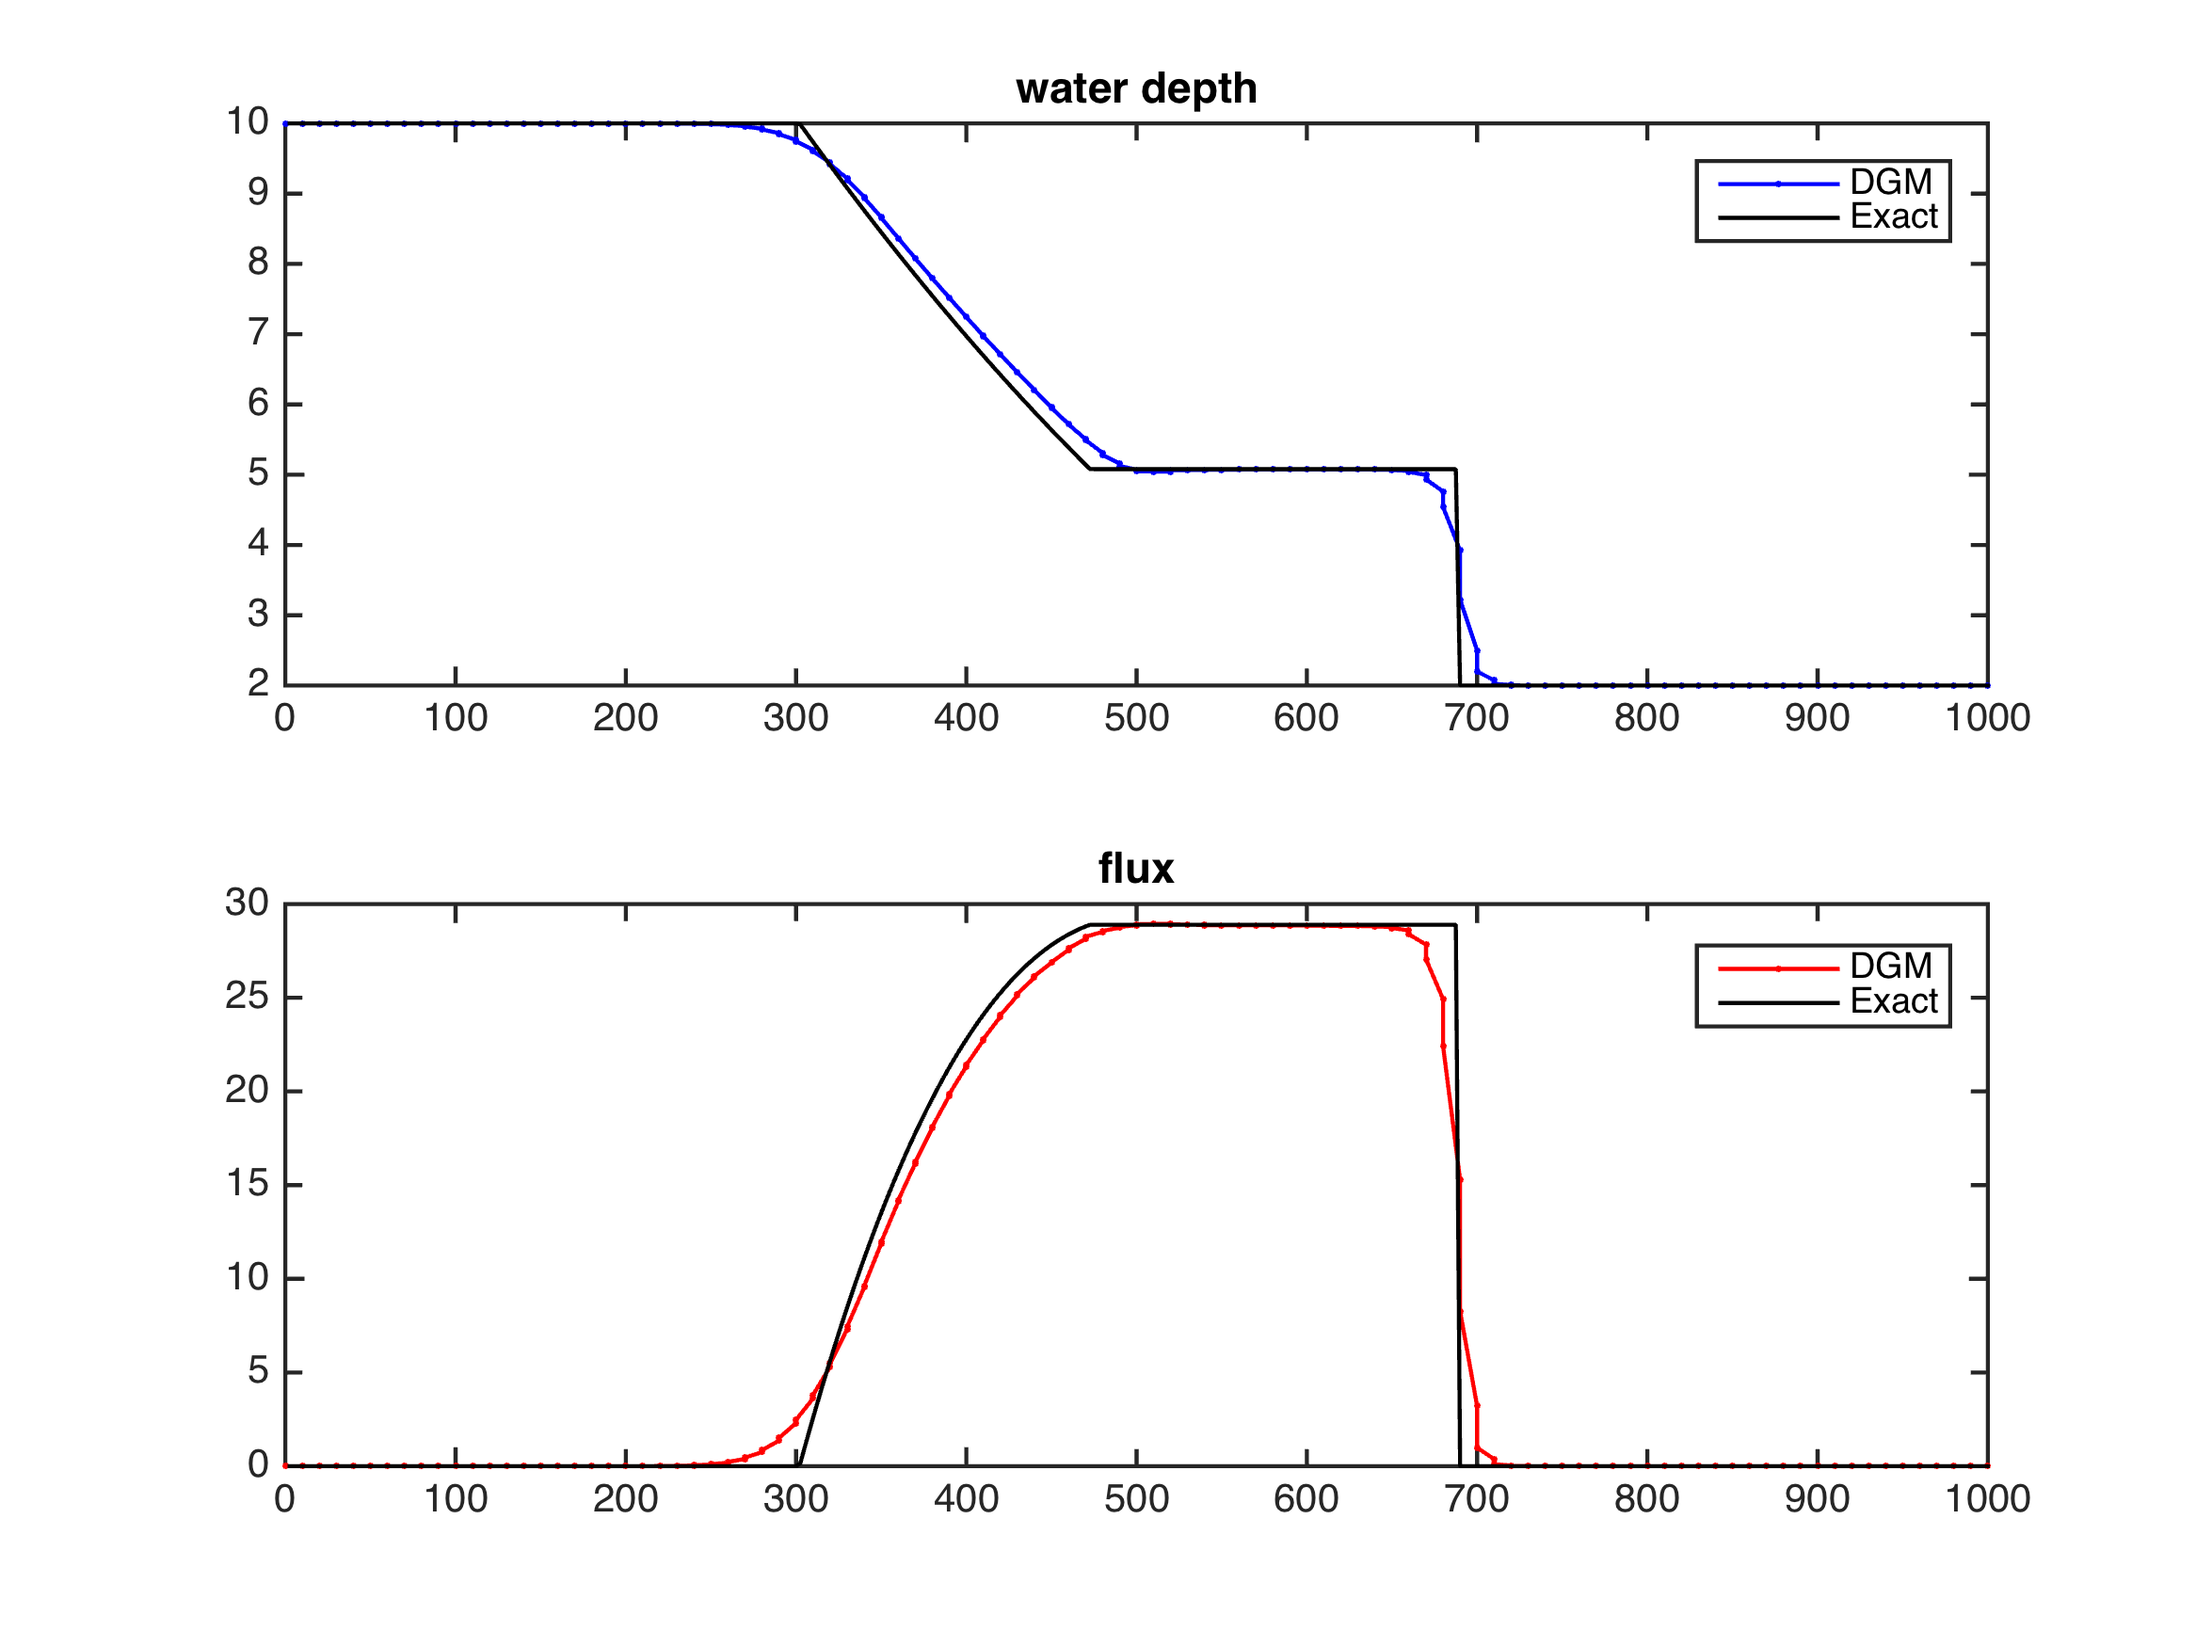
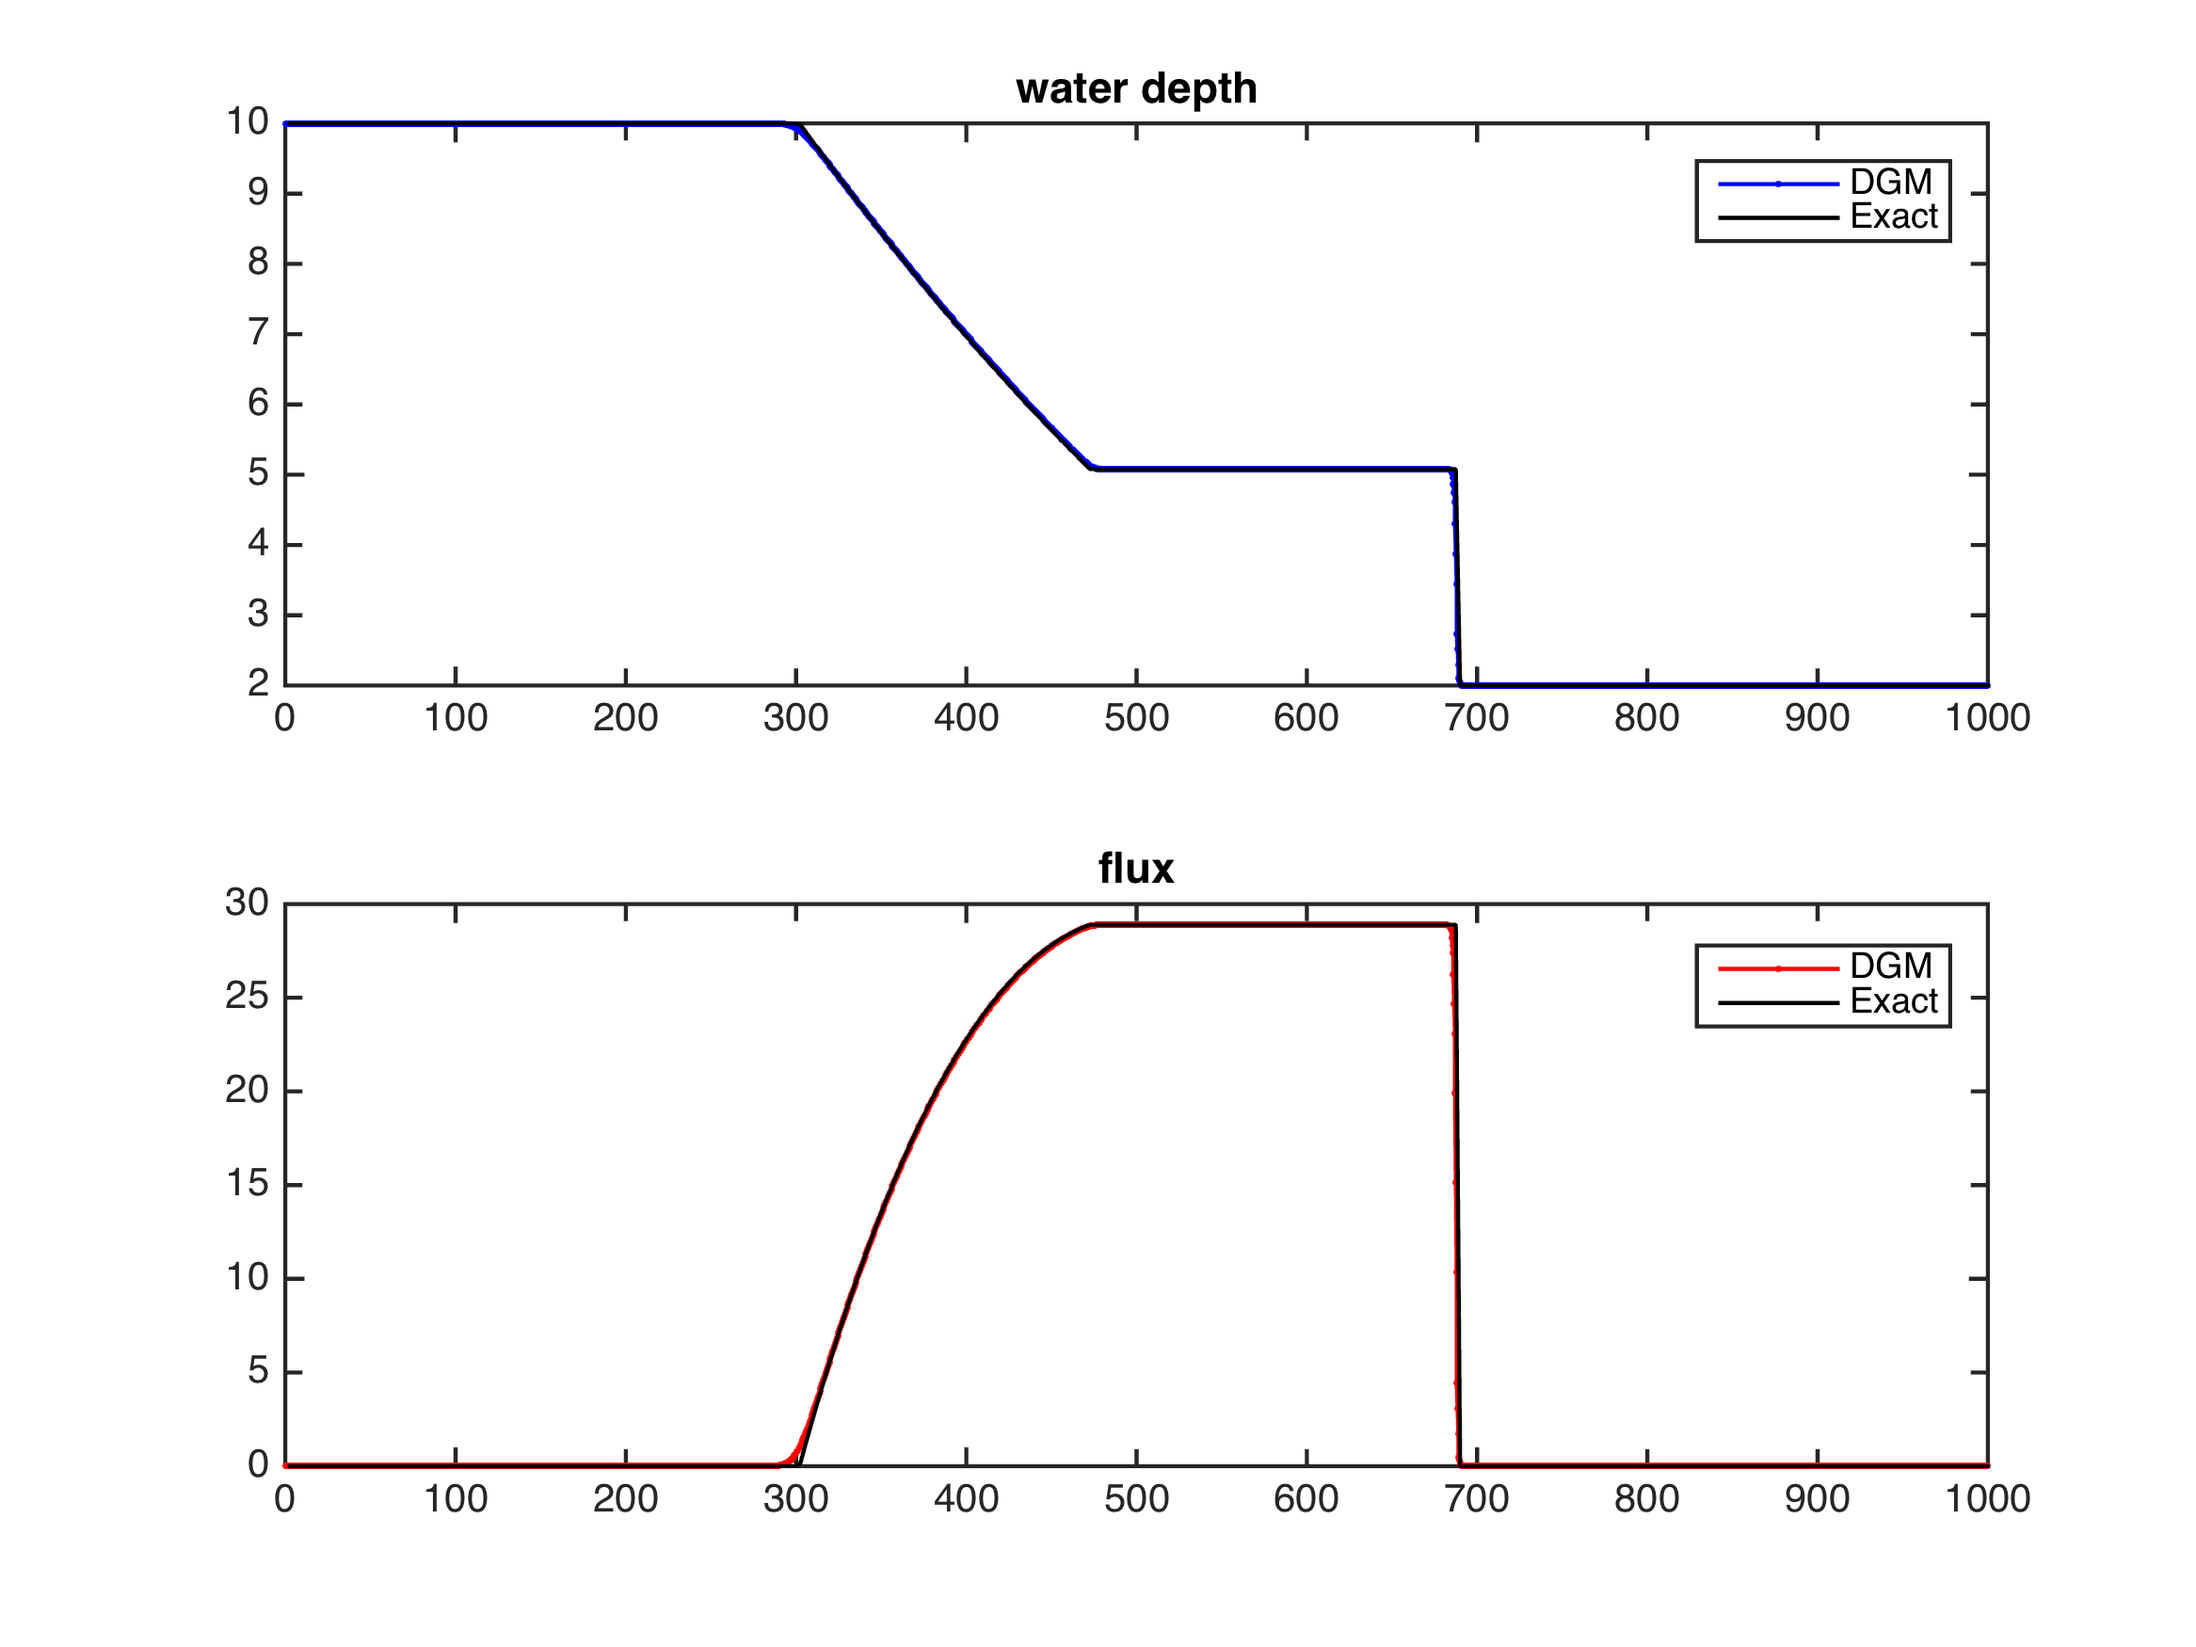
adding Lax-Friedrichs numerical flux

diff --git a/SWE1D/SWELF.m b/SWE1D/SWELF.m
@@ -1,0 +1,34 @@
+function [Fhs, Fqs] = SWELF(mesh, h, q)
+% Lax-Friedrichs numerical flux
+
+hDelta = 10^-3; g = 9.8;
+
+% rotate variable
+hM = h(mesh.vmapM); hP = h(mesh.vmapP);
+qM = mesh.nx.* q(mesh.vmapM); qP = mesh.nx.* q(mesh.vmapP);
+uM = zeros(size(hM)); uP = zeros(size(hP));
+isWetM = hM > hDelta; isWetP = hP > hDelta;
+
+uM(isWetM) = qM(isWetM)./hM(isWetM);
+uP(isWetP) = qP(isWetP)./hP(isWetP);
+
+% estimate wave speed
+SM = abs(uM) + sqrt(g*hM); SP = abs(uP) + sqrt(g*hP);
+SM(~isWetM) = 0; SM(~isWetP) = 0;
+S = max(SM, SP);
+
+[FhM, FqM] = SWEFlux(hM, qM, hDelta);
+[FhP, FqP] = SWEFlux(hP, qP, hDelta);
+
+% Compute HLL flux
+% Fhs = zeros(size(FhM)); Fqs = zeros(size(FqM));
+Fhs = 0.5*(FhM + FhP + S.*(hM - hP));
+Fqs = 0.5*(FqM + FqP + S.*(qM - qP));
+
+% both dry
+sflag = ~isWetM & ~isWetP;
+Fhs(sflag) = 0; Fqs(sflag) = 0;
+
+% rotate invariance
+Fqs = Fqs.*mesh.nx;
+end% func

diff --git a/SWE1D/PostProcess/ExactParabolicBowl.m b/SWE1D/PostProcess/ExactParabolicBowl.m
@@ -1,5 +1,5 @@
 close all
-filename = 'SWE1D.nc';
+filename = 'ParabolicBowl.nc';
 
 time = ncread(filename, 'time');
 % timestep = numel(time)
@@ -27,7 +27,7 @@ z2 = (4*B*w).*x./(4*g);
 h2 = z2 - bedElevation;
 h2(h2<hDelta) = hDelta;
 
-z3 = 1.22*ones(size(x));
+z3 = 1.22*ones(size(x)); %
 h3 = z3 - bedElevation;
 h3(h3<hDelta) = hDelta;
 
@@ -45,15 +45,15 @@ for n = 1:numel(exTime)
     figure
     subplot(2,1,1); 
     p_h = plot(x, h+bedElevation, '-b.'); hold on;
-    plot(x, bedElevation, 'k')
     switch n
         case 1
             plot(x, bedElevation+h2, 'k--')
         case 2
-%             h3 = h3 + 1.22;
             plot(x, bedElevation+h3, 'k--')
         case 3
             plot(x, bedElevation+h1, 'k--')
     end
+    legend('DGM', 'Exact')
+    plot(x, bedElevation, 'k')
     subplot(2,1,2); p_q = plot(x, q, '-r.');
 end% for

diff --git a/SWE1D/PostProcess/ExactFlowDump.m b/SWE1D/PostProcess/ExactFlowDump.m
@@ -1,0 +1,38 @@
+function [x, h] = ExactFlowDump(condition)
+% exact solution of flow dump
+% Input:
+%   condition - [1]: Subcritical flow
+%               [2]: Supercritical flow
+%               [3]: Transcritical flow
+
+x1 = 0; x2 = 25; % Flow over dump
+
+ne = 500; np = ne + 1;
+x = linspace(x1, x2, np);
+
+% bottom topography
+flag = (x >= 8) & (x <=12);
+z = zeros(size(x));
+z(flag) = 0.2 - 0.05*(x(flag) -10).^2;
+
+% inflow condition
+switch condition
+    case 1
+        q0 = 0.18; h0 = 0.5; 
+    case 2
+        q0 = 25.0567; h0 = 2.0; 
+    case 3
+        q0 = 0.18; h0 = 0.33; 
+end
+g = 9.8;
+
+% 
+h = zeros(size(x));
+h(1) = h0;
+for in = 2:np
+    coef = ( 1 - q0^2./(g*h(in-1).^3) );
+    xdelta = x(in) - x(in - 1);
+    h(in) = h(in - 1) + xdelta./coef*( -(z(in) - z(in-1))./xdelta );
+end% for
+
+plot(x, z, 'k', x, z+h, 'b-')

diff --git a/SWE1D/SWESetUp.m b/SWE1D/SWESetUp.m
@@ -7,7 +7,7 @@ function [h ,q] = SWESetUp
 
 physics = Utilities.varGroup;
 
-caseName = 'ParabolicBowl';
+caseName = 'DamBreakDry';
 switch caseName
     case 'DamBreakDry'
         FinalTime = 20; % Dam break
@@ -27,7 +27,7 @@ physics.incert('FinalTime', FinalTime);
 physics.incert('caseName', caseName);
 
 % max order of polymomials
-N = 1; nElement = 100;
+N = 1; nElement = 200;
 [Nv, VX, ~, EToV] = Utilities.Mesh.MeshGen1D(x1, x2, nElement);
 BC = [2,1; 3,Nv];
 

diff --git a/SWE1D/EstimateWaveSpeed.m b/SWE1D/EstimateWaveSpeed.m
@@ -5,7 +5,7 @@ function [SM, SP] = EstimateWaveSpeed(mesh, hM, hP, uM, uP)
 end% func
 
 function [SM, SP] = Toro(mesh, hM, hP, uM, uP)
-gra = 9.8; hDelta = 10^-6;
+gra = 9.8; hDelta = 10^-3;
     
 us = 0.5*(uM + uP) + (sqrt(gra*hM) - sqrt(gra*hP));
 cs = 0.5*( sqrt(gra*hM) + sqrt(gra*hP) ) + 0.25*(uM - uP);

diff --git a/SWE1D/PostProcess/ExactDry.m b/SWE1D/PostProcess/ExactDry.m
@@ -402,8 +402,8 @@ data = [   2.500000       10.00000      0.0000000E+00  0.0000000E+00
 ];
 
 %% get result
-close all
-filename = 'SWE1D.nc';
+% close all
+filename = 'DamBreakDry.nc';
 
 time = ncread(filename, 'time');
 timestep = numel(time);

diff --git a/SWE1D/PostProcess/ExactWet.m b/SWE1D/PostProcess/ExactWet.m
@@ -403,7 +403,7 @@ data = [   2.500000       10.00000      0.0000000E+00  0.0000000E+00
 
 %% get result
 close all
-filename = 'SWE1D.nc';
+filename = 'DamBreakWet.nc';
 
 time = ncread(filename, 'time');
 timestep = numel(time);

diff --git a/SWE1D/SWERHS.m b/SWE1D/SWERHS.m
@@ -5,7 +5,8 @@ line = mesh.Shape;
 hDelta = 1e-3;
 
 % numel flux
-[Fhs, Fqs] = SWEHLL(mesh, h, q);
+[Fhs, Fqs] = SWELF(mesh, h, q);
+% [Fhs, Fqs] = SWEHLL(mesh, h, q);
 
 % eliminate dry boundary flux
 isdry = (h <= hDelta);

diff --git a/SWE1D/PostProcess/postprocess.m b/SWE1D/PostProcess/postprocess.m
@@ -1,5 +1,5 @@
-close all
-filename = 'SWE1D.nc';
+% close all
+filename = 'DamBreakDry.nc';
 
 time = ncread(filename, 'time');
 % timestep = numel(time)
